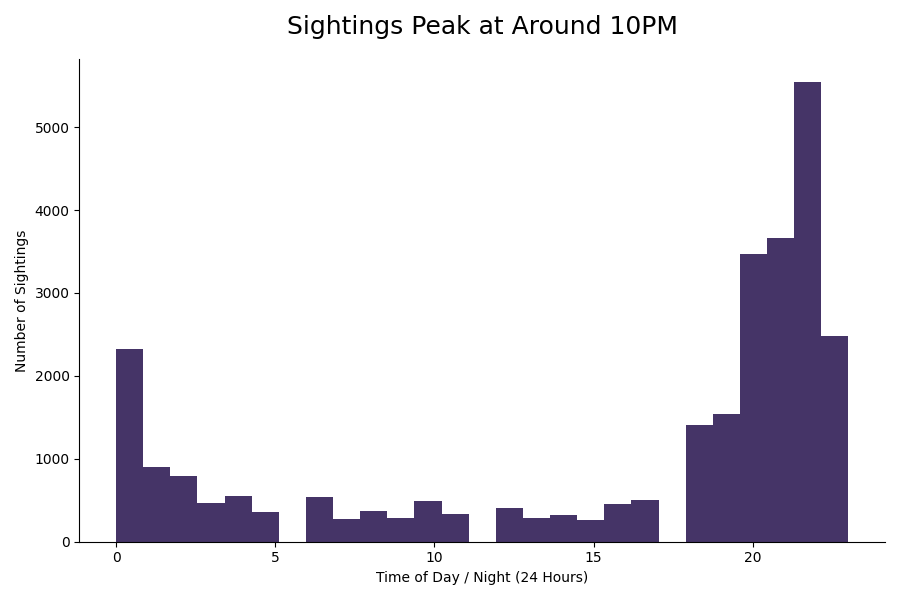
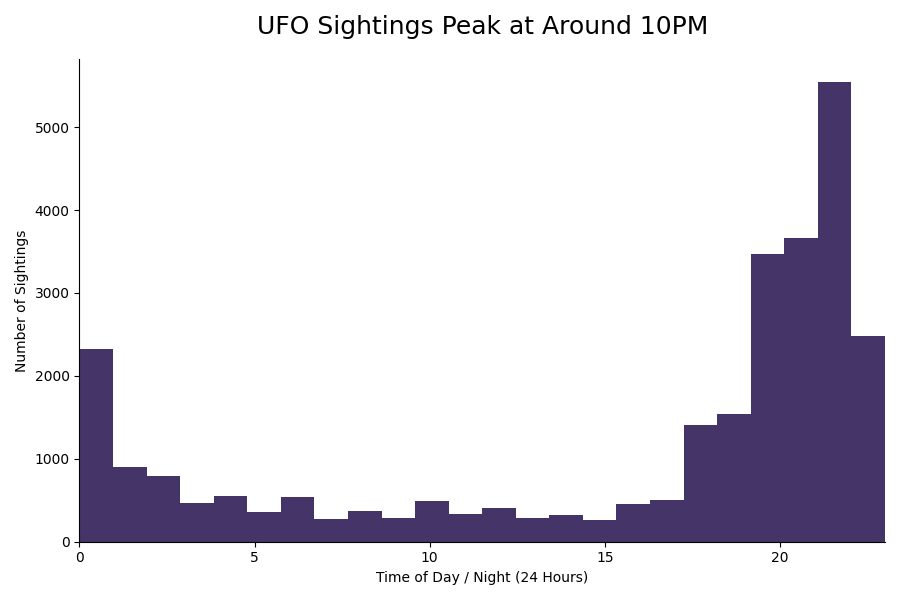
updated histogram for 24 hour chart

diff --git a/sightings_times.py b/sightings_times.py
@@ -28,13 +28,14 @@ sighting_wx_df["hour_num"] = pd.to_numeric(sighting_wx_df['hour_str'])
 
 plt.figure(figsize=(9,6))
 plt.hist(sighting_wx_df['hour_num'].dropna(), 
-         bins=27,                    
+         bins=24,                    
          color="#170141", 
          alpha=0.8)
 
 plt.xlabel("Time of Day / Night (24 Hours)")
 plt.ylabel("Number of Sightings")
-plt.title("Sightings Peak at Around 10PM", fontsize=18, pad=18)
+plt.title("UFO Sightings Peak at Around 10PM", fontsize=18, pad=18)
+plt.xlim(0, 23)
 
 ax = plt.gca()
 ax.spines['top'].set_visible(False)
